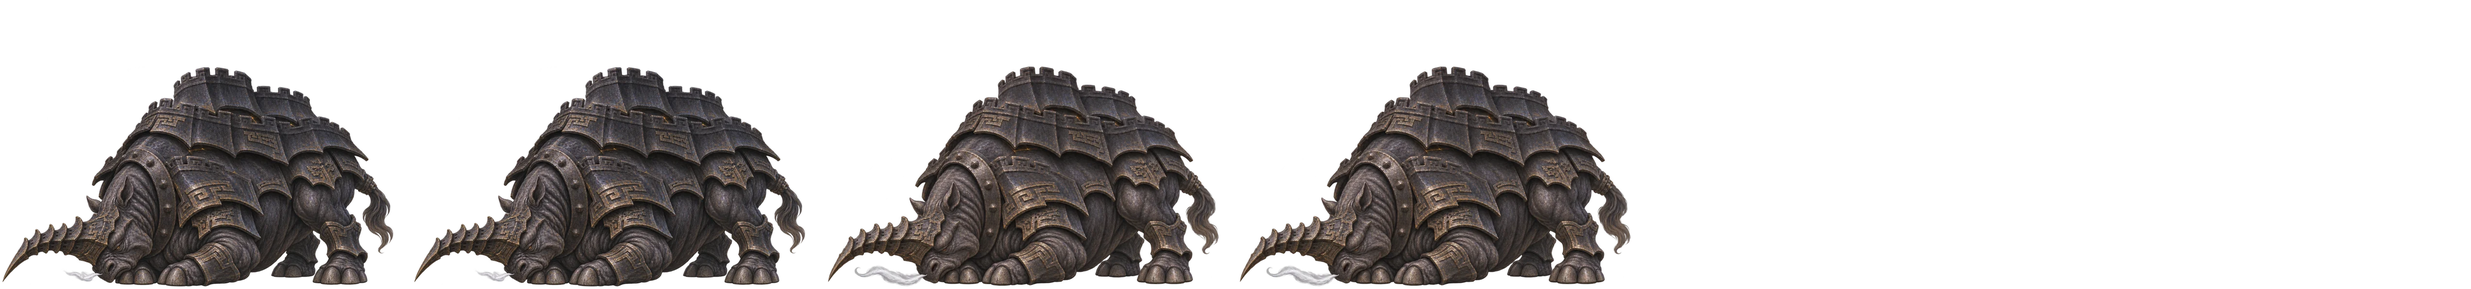
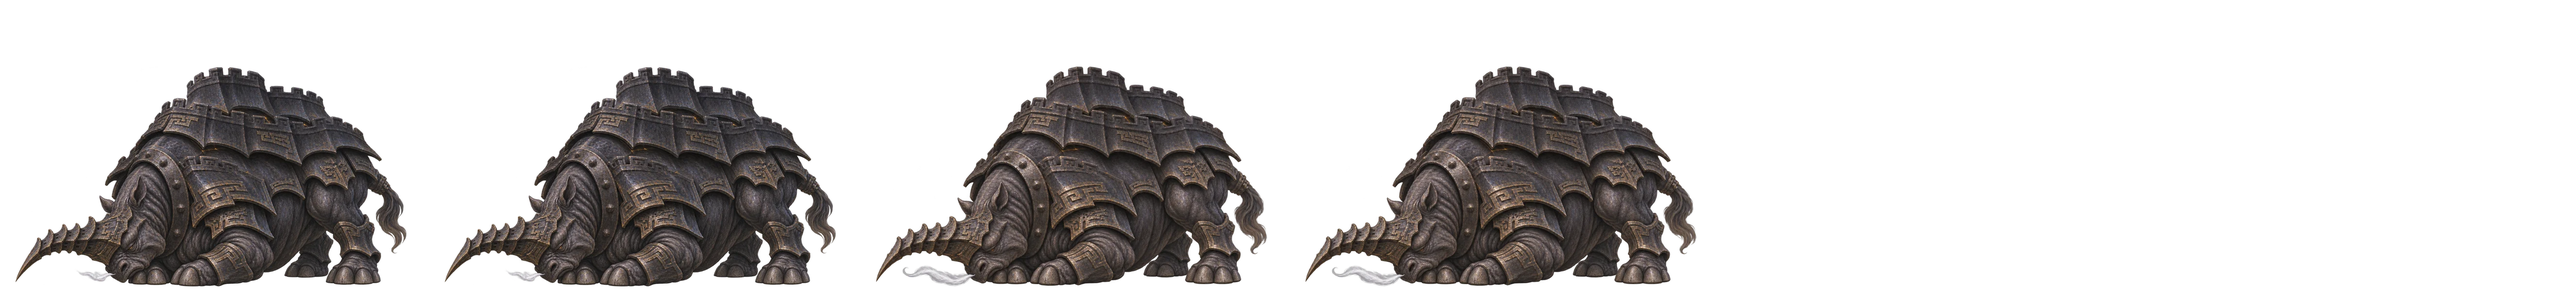
R378：妖豹、犀王补出手帧；回春妖姬换本体（平时 / 蓄力，其余等 Codex）；三张讨伐榜新画像
Claude-Session: https://claude.ai/code/session_01MLmwgsq8MPeyfrTaz8BRE2

Changed region(s): [[0.0, 0.2114, 0.6562, 0.9966]]

diff --git a/game/r378_meta.js b/game/r378_meta.js
@@ -1,2 +1,2 @@
 // R378 · 妖王本体图集的尺寸表（tools/r378_build.py 生成，别手改）
-window.R378_META = {"boar": {"main": {"idleEnd": 7, "impact": 15, "n": 26, "cols": 6, "fw": 826, "fh": 555, "footX": 439.3, "footY": 550.3, "fps": 12}, "h": 444.0, "bodyH": 430, "atk": true, "charge": {"idleEnd": 5, "impact": 6, "n": 6, "cols": 6, "fw": 826, "fh": 555, "footX": 439.3, "footY": 550.3, "fps": 12}, "break": {"idleEnd": 3, "impact": 4, "n": 4, "cols": 6, "fw": 826, "fh": 555, "footX": 439.3, "footY": 550.3, "fps": 12}}, "leopard": {"main": {"idleEnd": 7, "impact": 8, "n": 8, "cols": 6, "fw": 715, "fh": 512, "footX": 366.5, "footY": 507.8, "fps": 12}, "h": 409.6, "bodyH": 400, "atk": false, "charge": {"idleEnd": 5, "impact": 6, "n": 6, "cols": 6, "fw": 715, "fh": 512, "footX": 366.5, "footY": 507.8, "fps": 12}, "break": {"idleEnd": 3, "impact": 4, "n": 4, "cols": 6, "fw": 715, "fh": 512, "footX": 366.5, "footY": 507.8, "fps": 12}}, "rhino": {"main": {"idleEnd": 7, "impact": 8, "n": 8, "cols": 6, "fw": 848, "fh": 596, "footX": 447.9, "footY": 590.4, "fps": 12}, "h": 476.8, "bodyH": 450, "atk": false, "charge": {"idleEnd": 5, "impact": 6, "n": 6, "cols": 6, "fw": 848, "fh": 596, "footX": 447.9, "footY": 590.4, "fps": 12}, "break": {"idleEnd": 3, "impact": 4, "n": 4, "cols": 6, "fw": 848, "fh": 596, "footX": 447.9, "footY": 590.4, "fps": 12}}};
+window.R378_META = {"boar": {"main": {"idleEnd": 7, "impact": 15, "n": 26, "cols": 6, "fw": 826, "fh": 555, "footX": 439.3, "footY": 550.3, "fps": 12}, "h": 444.0, "bodyH": 430, "atk": true, "charge": {"idleEnd": 5, "impact": 6, "n": 6, "cols": 6, "fw": 826, "fh": 555, "footX": 439.3, "footY": 550.3, "fps": 12}, "break": {"idleEnd": 3, "impact": 4, "n": 4, "cols": 6, "fw": 826, "fh": 555, "footX": 439.3, "footY": 550.3, "fps": 12}, "poster": 1}, "leopard": {"main": {"idleEnd": 7, "impact": 15, "n": 26, "cols": 6, "fw": 765, "fh": 512, "footX": 411.1, "footY": 507.8, "fps": 12}, "h": 409.6, "bodyH": 400, "atk": true, "charge": {"idleEnd": 5, "impact": 6, "n": 6, "cols": 6, "fw": 765, "fh": 512, "footX": 411.1, "footY": 507.8, "fps": 12}, "break": {"idleEnd": 3, "impact": 4, "n": 4, "cols": 6, "fw": 765, "fh": 512, "footX": 411.1, "footY": 507.8, "fps": 12}, "poster": 1}, "rhino": {"main": {"idleEnd": 7, "impact": 15, "n": 26, "cols": 6, "fw": 884, "fh": 596, "footX": 475.2, "footY": 590.4, "fps": 12}, "h": 476.8, "bodyH": 450, "atk": true, "charge": {"idleEnd": 5, "impact": 6, "n": 6, "cols": 6, "fw": 884, "fh": 596, "footX": 475.2, "footY": 590.4, "fps": 12}, "break": {"idleEnd": 3, "impact": 4, "n": 4, "cols": 6, "fw": 884, "fh": 596, "footX": 475.2, "footY": 590.4, "fps": 12}, "poster": 1}, "treant": {"main": {"idleEnd": 7, "impact": 8, "n": 8, "cols": 6, "fw": 755, "fh": 608, "footX": 377.3, "footY": 603.5, "fps": 12}, "h": 486.4, "bodyH": 470, "atk": false, "charge": {"idleEnd": 5, "impact": 6, "n": 6, "cols": 6, "fw": 755, "fh": 608, "footX": 377.3, "footY": 603.5, "fps": 12}}};

diff --git a/tools/r378_build.py b/tools/r378_build.py
@@ -9,7 +9,7 @@ SRC = sys.argv[1]; ONLY = sys.argv[2:]
 OUT = os.path.join(os.path.dirname(os.path.abspath(__file__)), '..', 'game', 'r378'); os.makedirs(OUT, exist_ok=True)
 META_JS = os.path.join(OUT, '..', 'r378_meta.js')
 # 战斗里「平时那一帧」身体显示多高（逻辑像素，1280×720 画面）、站位
-BODY = {'boar': 430, 'leopard': 400, 'rhino': 450, 'treant': 540, 'wolf': 520, 'spider': 500}
+BODY = {'boar': 430, 'leopard': 400, 'rhino': 450, 'treant': 470, 'wolf': 480, 'spider': 460}
 OVER = 1.25          # 图集比显示尺寸大多少（留一点清晰度）
 IDLE_HOLD = 2        # 平时每帧连放几拍（8 拍 / 秒，来回播）
 ATK_HOLD = [4, 3, 5, 3, 3]   # 出手五帧各放几拍（20 拍 / 秒）；第三帧是命中帧
